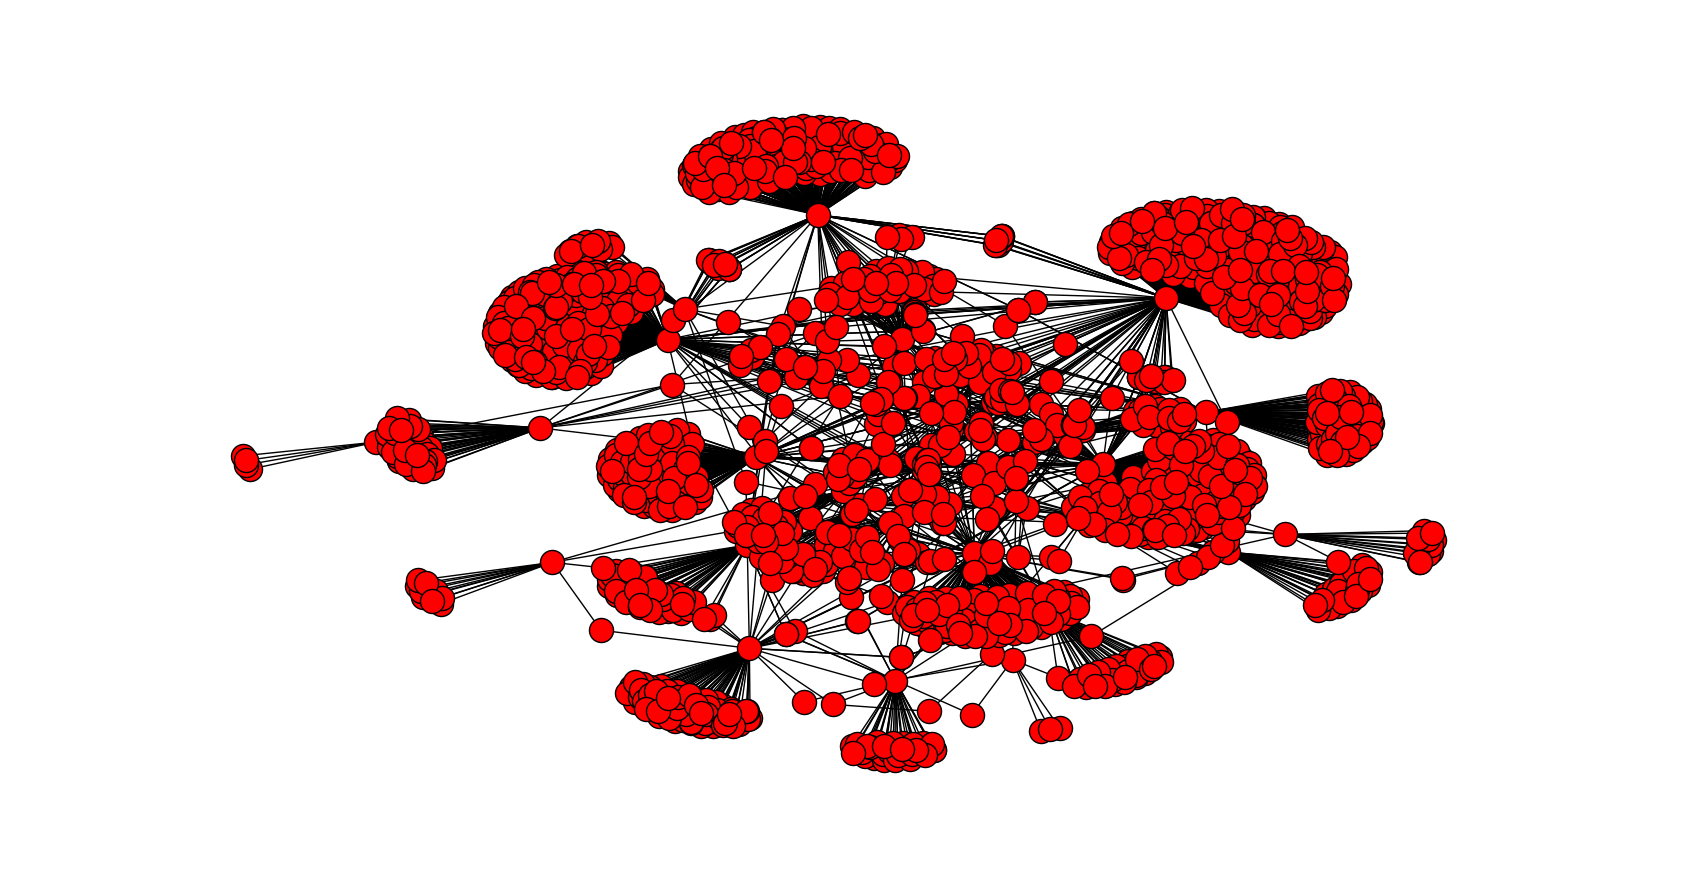
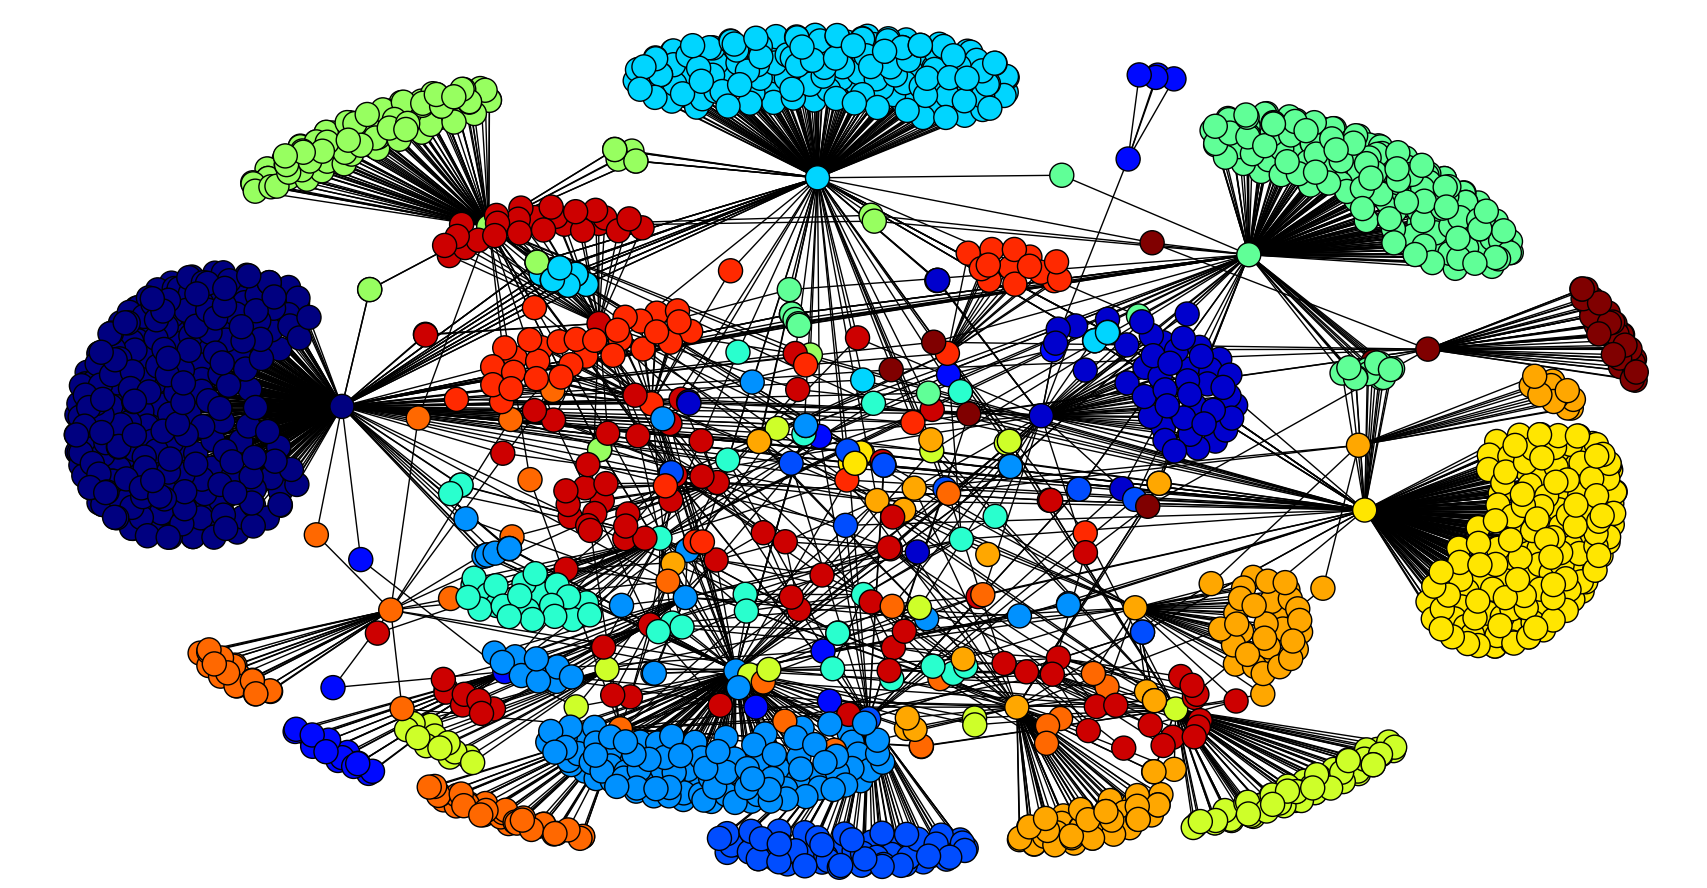
Cambios generación de grafos

diff --git a/proyecto_aed_fb/create_graph.py b/proyecto_aed_fb/create_graph.py
@@ -6,15 +6,11 @@ import community
 
 def connect_db():
     connection = mdb.connect('108.167.133.34', 'connie_usr_aed', 'SK5CTTs8zXV9', 'connie_facebook')
-    connection.set_character_set('utf8mb4')
     return connection
 
 
 def get_cursor(connect):
     cursor = connect.cursor()
-    cursor.execute('SET NAMES utf8mb4;')
-    cursor.execute('SET CHARACTER SET utf8mb4;')
-    cursor.execute('SET character_set_connection=utf8mb4;')
     return cursor
 
 
@@ -24,13 +20,29 @@ def get_post(inicio, fin):
 
 
 def get_comment(id, inicio, fin):
-    query_comment = "SELECT cf.id FROM comment as c INNER JOIN comment_from as cf ON c.id_comment = cf.id_comment WHERE c.id_post = " + str(id) + " AND STR_TO_DATE(c.created_time, '%Y-%m-%dT%H:%i:%s+0000') BETWEEN STR_TO_DATE('"+ str(inicio) +"', '%Y-%m-%dT%H:%i:%s+0000') AND STR_TO_DATE('"+ str(fin) +"', '%Y-%m-%dT%H:%i:%s+0000');"
+    query_comment = "SELECT DISTINCT cf.id FROM comment as c INNER JOIN comment_from as cf ON c.id_comment = cf.id_comment WHERE c.id_post = " + str(id) + " AND STR_TO_DATE(c.created_time, '%Y-%m-%dT%H:%i:%s+0000') BETWEEN STR_TO_DATE('"+ str(inicio) +"', '%Y-%m-%dT%H:%i:%s+0000') AND STR_TO_DATE('"+ str(fin) +"', '%Y-%m-%dT%H:%i:%s+0000');"
     return query_comment
 
 
+def get_communities(partition, list_posts):
+    for item in list_posts:
+        for key, value in partition.items():
+            if value == item:
+                print "Escriir"
+
 if __name__ == '__main__':
-    inicio = '2016-06-17T01:22:44+0000'
-    fin = '2016-06-17T04:01:30+0000'
+    '''
+    inicio = '2016-06-17T01:22:44+0000' fin = '2016-06-17T04:01:30+0000'#EEUU_VS_Ecuador
+    inicio = '2016-06-17T23:42:20+0000' fin = '2016-06-18T02:55:17+0000'#Colombia_VS_Peru
+    inicio = '2016-06-19T01:26:00+0000' fin = '2016-06-19T04:23:23+0000'#Mexico_VS_Chile
+    inicio = '2016-06-22T02:02:20+0000' fin = '2016-06-22T04:20:43+0000'#EEUU_VS_Argentina
+    inicio = '2016-06-22T23:40:45+0000' fin = '2016-06-23T05:12:30+0000'#Chile_VS_Colombia
+    inicio = '2016-06-26T00:24:34+0000' fin = '2016-06-26T03:50:36+0000'#EEUU_VS_Colombia
+    inicio = '2016-06-26T23:24:26+0000' fin = '2016-06-27T05:42:49+0000'#Argentina_VS_Chile
+    '''
+    inicio = '2016-06-19T01:26:00+0000'
+    fin = '2016-06-19T04:23:23+0000'  # Mexico_VS_Chile
+
     connection = connect_db()
     cursor = get_cursor(connection)
     cursor.execute(get_post(inicio, fin))
@@ -39,27 +51,42 @@ if __name__ == '__main__':
     list_posts = list()
     list_comments = list()
     my_edges = list()
+    parada = 0
     for post in posts:
+        parada += 1
         id_post = post[0]
-        list_posts.append(id_post)
+        #print id_post
+        #list_posts.append(id_post)
         grafo.add_node(id_post)
         cursor.execute(get_comment(id_post, inicio, fin))
         comments_users = cursor.fetchall()
         for comment_user in comments_users:
             id_user = comment_user[0]
-            list_comments.append(id_user)
-            valor = (id_post, id_user)
-            my_edges.append(valor)
+            #list_comments.append(id_user)
+            #valor = (id_post, id_user)
+            #my_edges.append(valor)
             grafo.add_node(id_user)
             grafo.add_edge(id_post, id_user)
+        #if parada == 100:
+        #    break
     #nx.draw(grafo)
-    pos = nx.spring_layout(grafo)
-    nx.draw_networkx_nodes(grafo, pos, nodelist=list_posts, node_color='r')
-    nx.draw_networkx_nodes(grafo, pos, nodelist=list_comments, node_color='c')
-    nx.draw_networkx_edges(grafo, pos, edgelist=my_edges, edge_color='r')
-    #nx.draw_networkx_nodes(grafo, node_size=3000, nodelist=list_posts, node_color='b')
+    #pos = nx.spring_layout(grafo)
+    #nx.draw_networkx_nodes(grafo, pos, nodelist=list_posts, node_color='r')
+    #nx.draw_networkx_nodes(grafo, pos, nodelist=list_comments, node_color='c')
+    #nx.draw_networkx_edges(grafo, pos, edgelist=my_edges, edge_color='r')
     parts = community.best_partition(grafo)
     values = [parts.get(node) for node in grafo.nodes()]
-    plt.draw()
+    nx.draw_spring(grafo, node_color=values, with_labels=False)
+    '''
+    for item in list_posts:
+        ssss = parts[item]
+        for key, value in parts.items():
+            if value == ssss:
+                print "Escriir"'''
+
+
+
+    print nx.info(grafo)
+    plt.axis('off')
     plt.show()
 

diff --git a/proyecto_aed_fb/comunidades.py b/proyecto_aed_fb/comunidades.py
@@ -13,7 +13,7 @@ partition = community.best_partition(G)
 size = float(len(set(partition.values())))
 pos = nx.spring_layout(G)
 count = 0.
-for com in set(partition.values()) :
+for com in set(partition.values()):
     count = count + 1.
     list_nodes = [nodes for nodes in partition.keys()
                                 if partition[nodes] == com]
